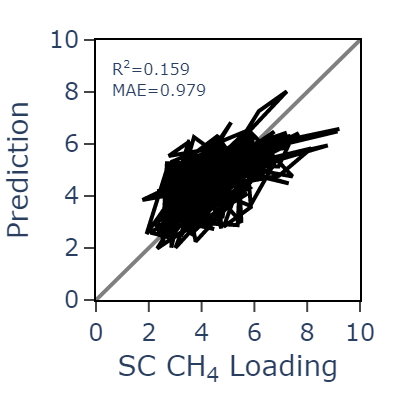
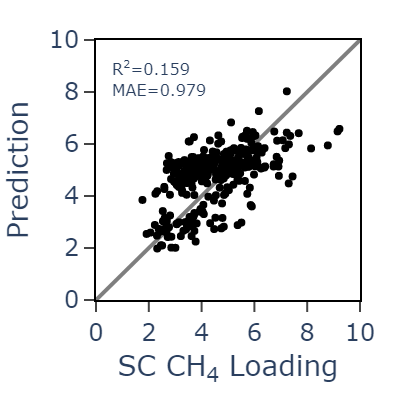
Updating figure graphs

Changed region(s): [[0.33, 0.21, 0.87, 0.63]]

diff --git a/ML_MOFs/figures.py b/ML_MOFs/figures.py
@@ -255,7 +255,7 @@ def prediction_plots(data, target, method, fig_no, ranges, test=None):
         ]
     ))
     if test:
-        fig.add_trace(go.Scatter(x=data["Real"], y=data[method], line=dict(color="black")))
+        fig.add_trace(go.Scatter(x=data["Real"], y=data[method], mode="markers", line=dict(color="black")))
     else:
         fig.add_trace(go.Scatter(x=data[target], y=data[target + " Prediction"], mode='markers',
                                  line=dict(color="black")))
